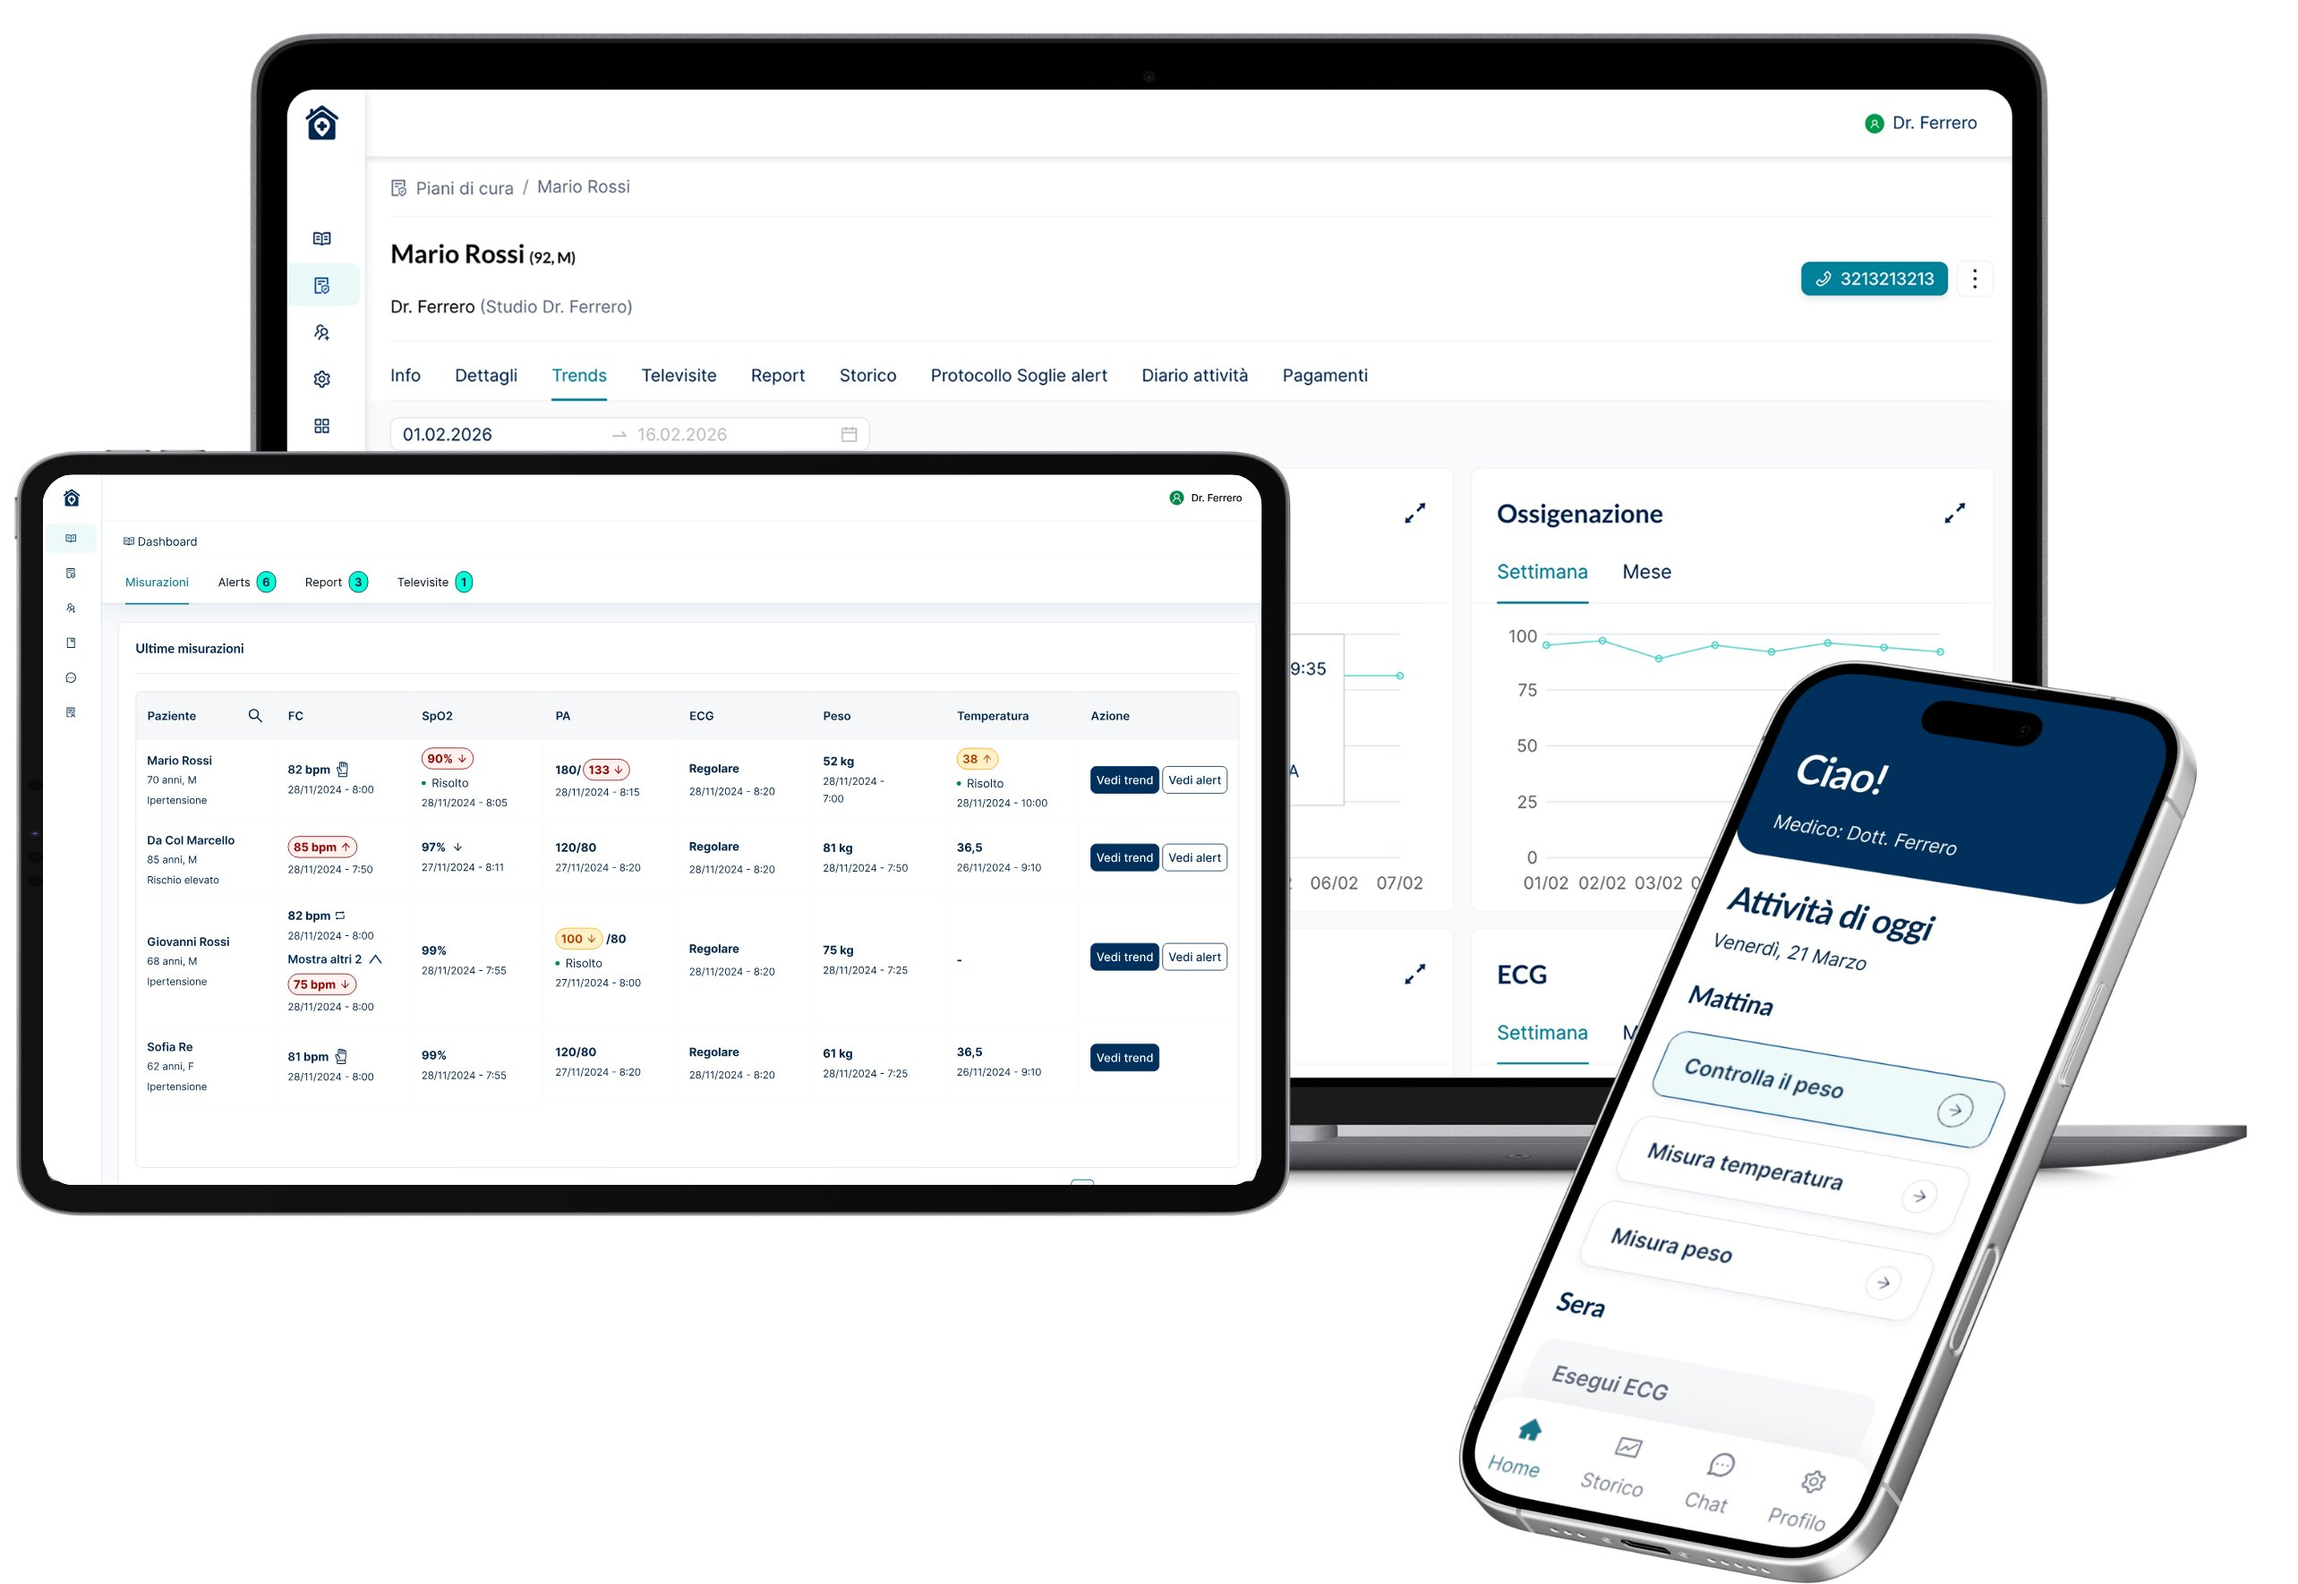
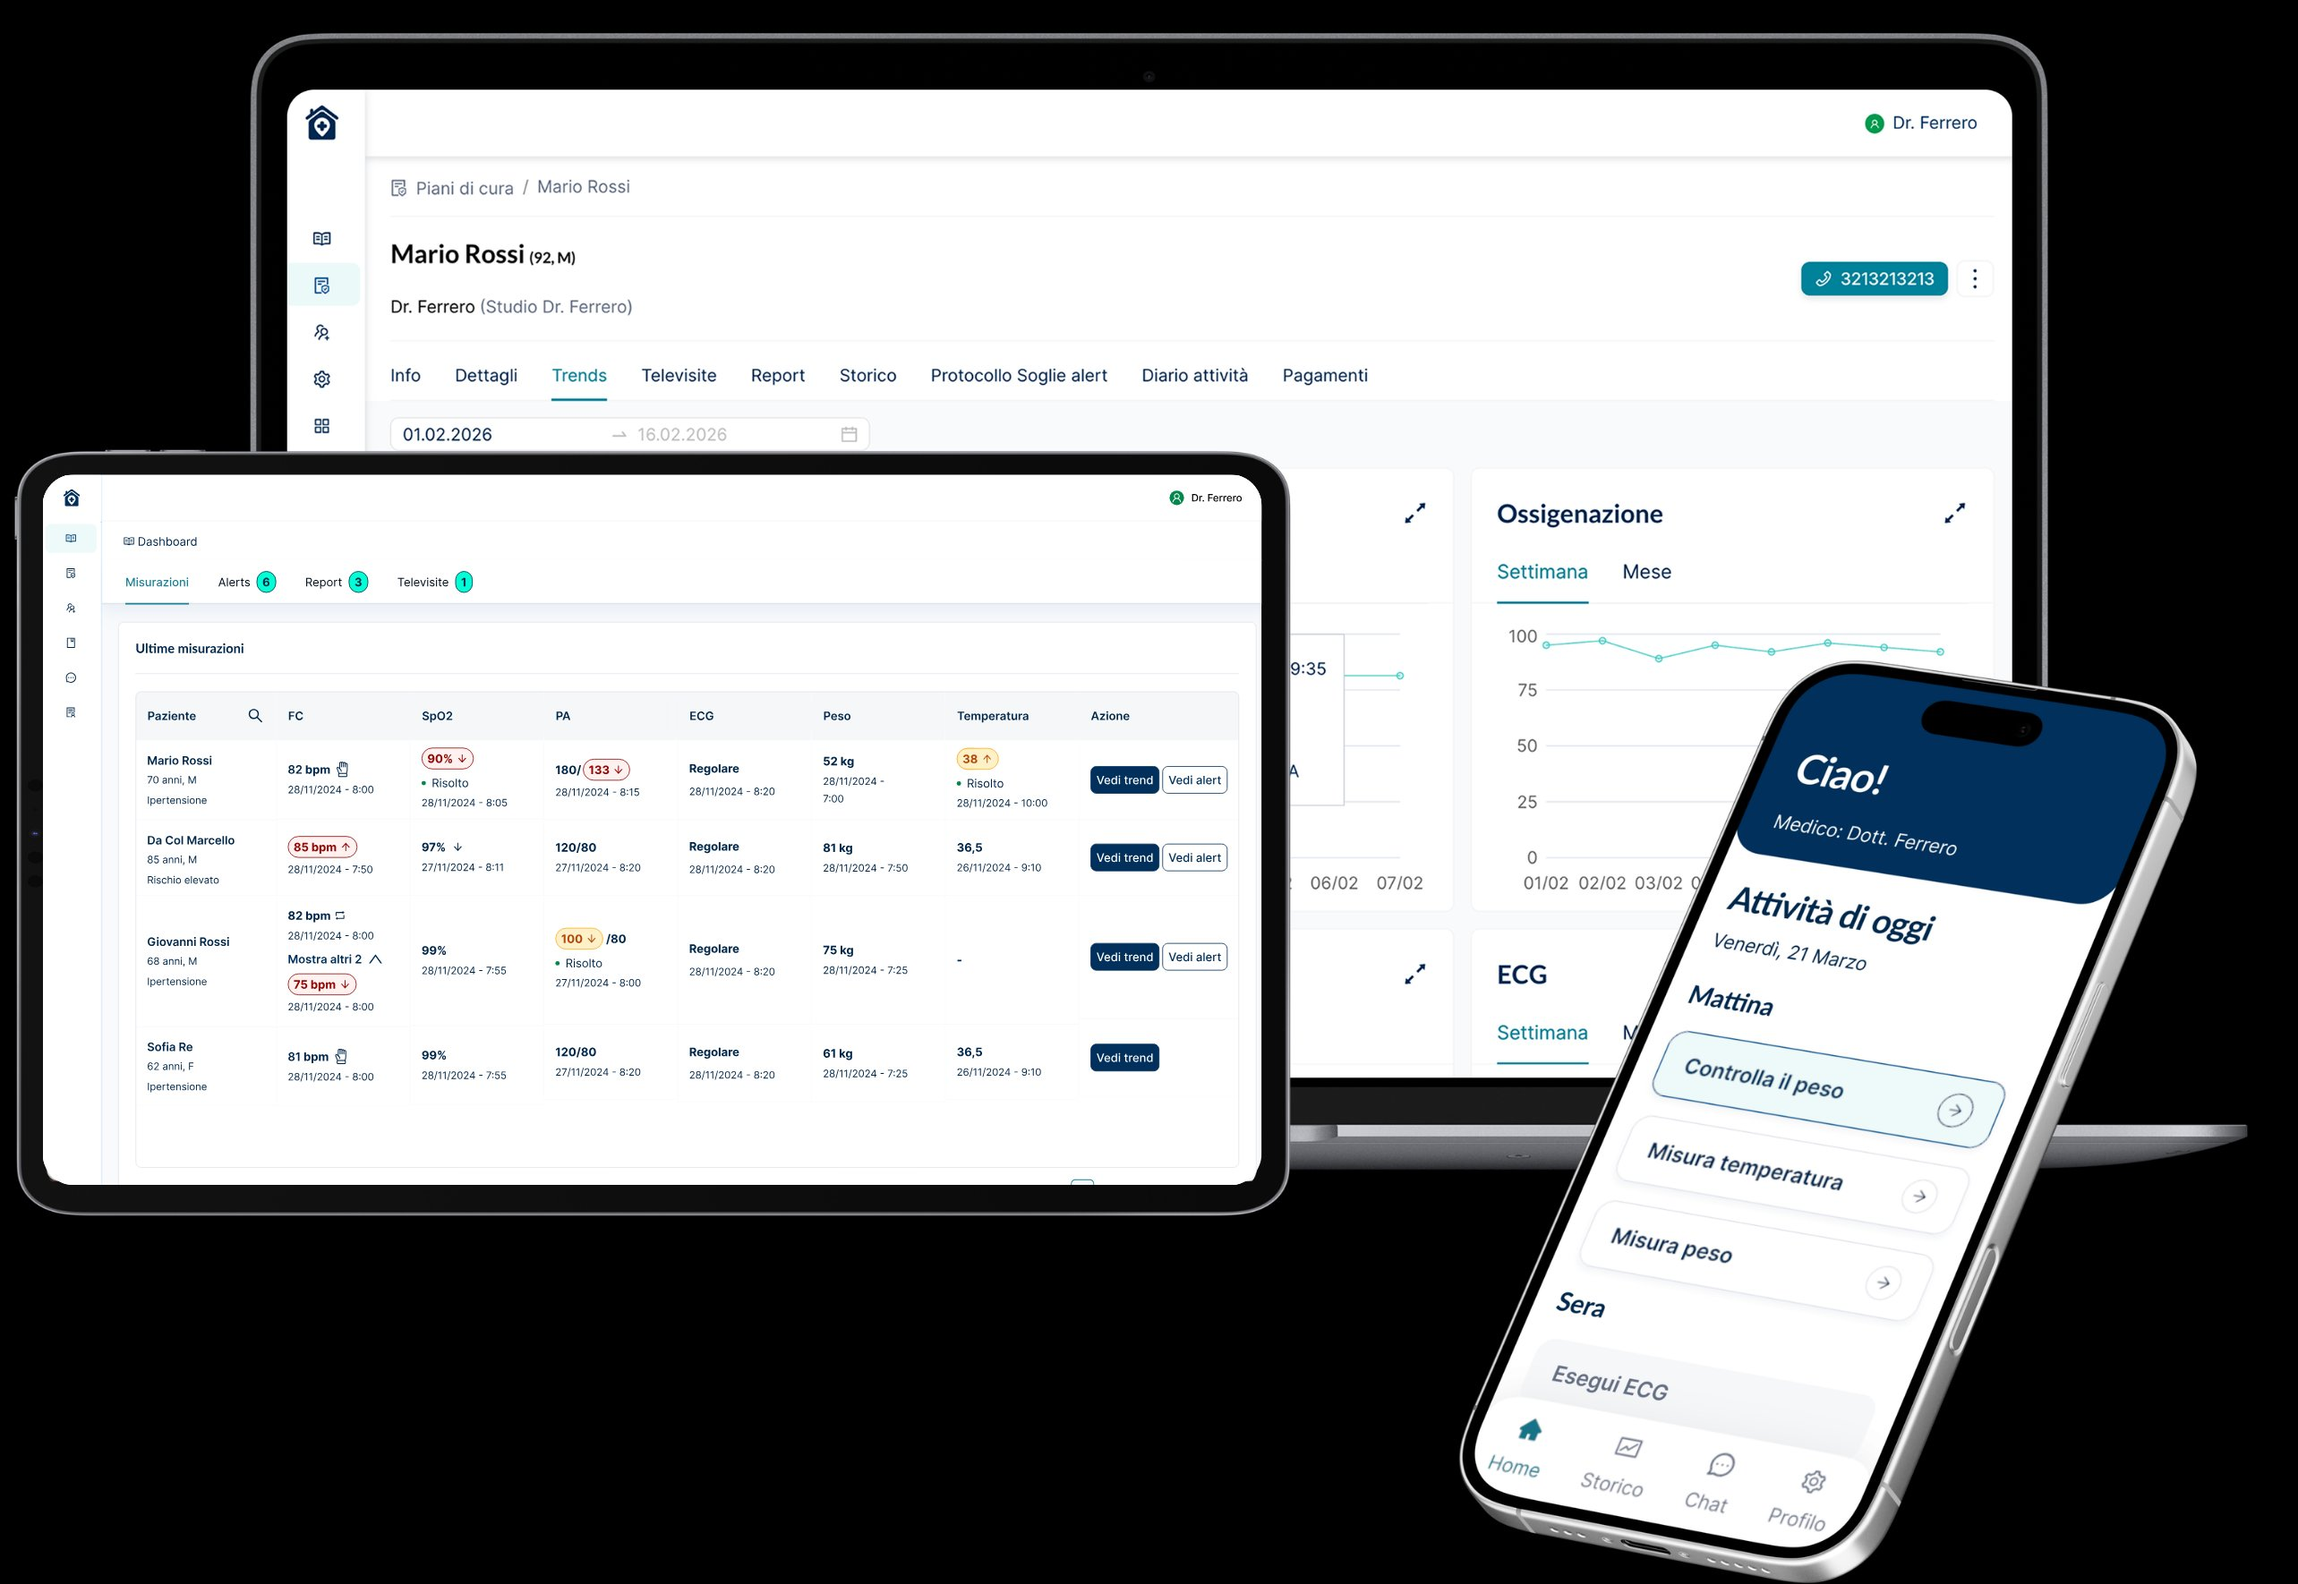
Replace hero graphic with product screenshot (transparent bg)

diff --git a/index.html b/index.html
@@ -250,16 +250,7 @@ body{font-family:'Lato',sans-serif;color:var(--white);background:var(--navy-deep
     </div>
   </div>
   <div class="hero-visual">
-    <div class="hero-graphic">
-      <div class="hero-ring"></div><div class="hero-ring"></div><div class="hero-ring"></div>
-      <div class="hero-center"><svg viewBox="0 0 24 24"><path d="M3 9l9-7 9 7v11a2 2 0 0 1-2 2H5a2 2 0 0 1-2-2z"/><circle cx="12" cy="13" r="3"/></svg></div>
-      <div class="h-node" style="top:8%;left:45%">ECG</div>
-      <div class="h-node" style="top:25%;right:5%">SpO₂</div>
-      <div class="h-node" style="top:55%;right:0%">mmHg</div>
-      <div class="h-node" style="bottom:10%;right:20%">°C</div>
-      <div class="h-node" style="bottom:5%;left:30%">BMI</div>
-      <div class="h-node" style="top:40%;left:2%">Spiro</div>
-    </div>
+    <img src="asset_website.png" alt="Piattaforma Medicilio" style="width:100%;max-width:560px;display:block;filter:drop-shadow(0 24px 48px rgba(0,0,0,0.4))">
   </div>
 </div></div>
 </section>
@@ -427,18 +418,6 @@ body{font-family:'Lato',sans-serif;color:var(--white);background:var(--navy-deep
       <p>Alla luce del rimborso di <strong>€120/mese/paziente</strong>, i 28.000 pazienti in pipeline equivalgono a oltre €20M di ARR. Medicilio ha <strong>anni di vantaggio competitivo</strong> rispetto a qualsiasi nuovo entrante nel mercato italiano.</p>
     </div>
     <div class="cta-number">>€20M</div>
-  </div>
-</div>
-</section>
-
-
-
-<!-- TECH VISUAL -->
-<section class="slide" id="tech" style="min-height:auto;padding:4rem 2rem;background:var(--navy-deep)">
-<div class="slide-inner">
-  <div class="fi"><div class="sl">02b — La piattaforma</div><div class="st" style="margin-bottom:1.5rem">Dashboard medico e app paziente</div></div>
-  <div class="fi" style="border-radius:16px;overflow:hidden;border:1px solid rgba(59,191,173,0.12);background:rgba(255,255,255,0.02)">
-    <img id="tech-asset-img" src="asset_website.png" alt="Piattaforma Medicilio" style="width:100%;display:block;border-radius:16px">
   </div>
 </div>
 </section>
